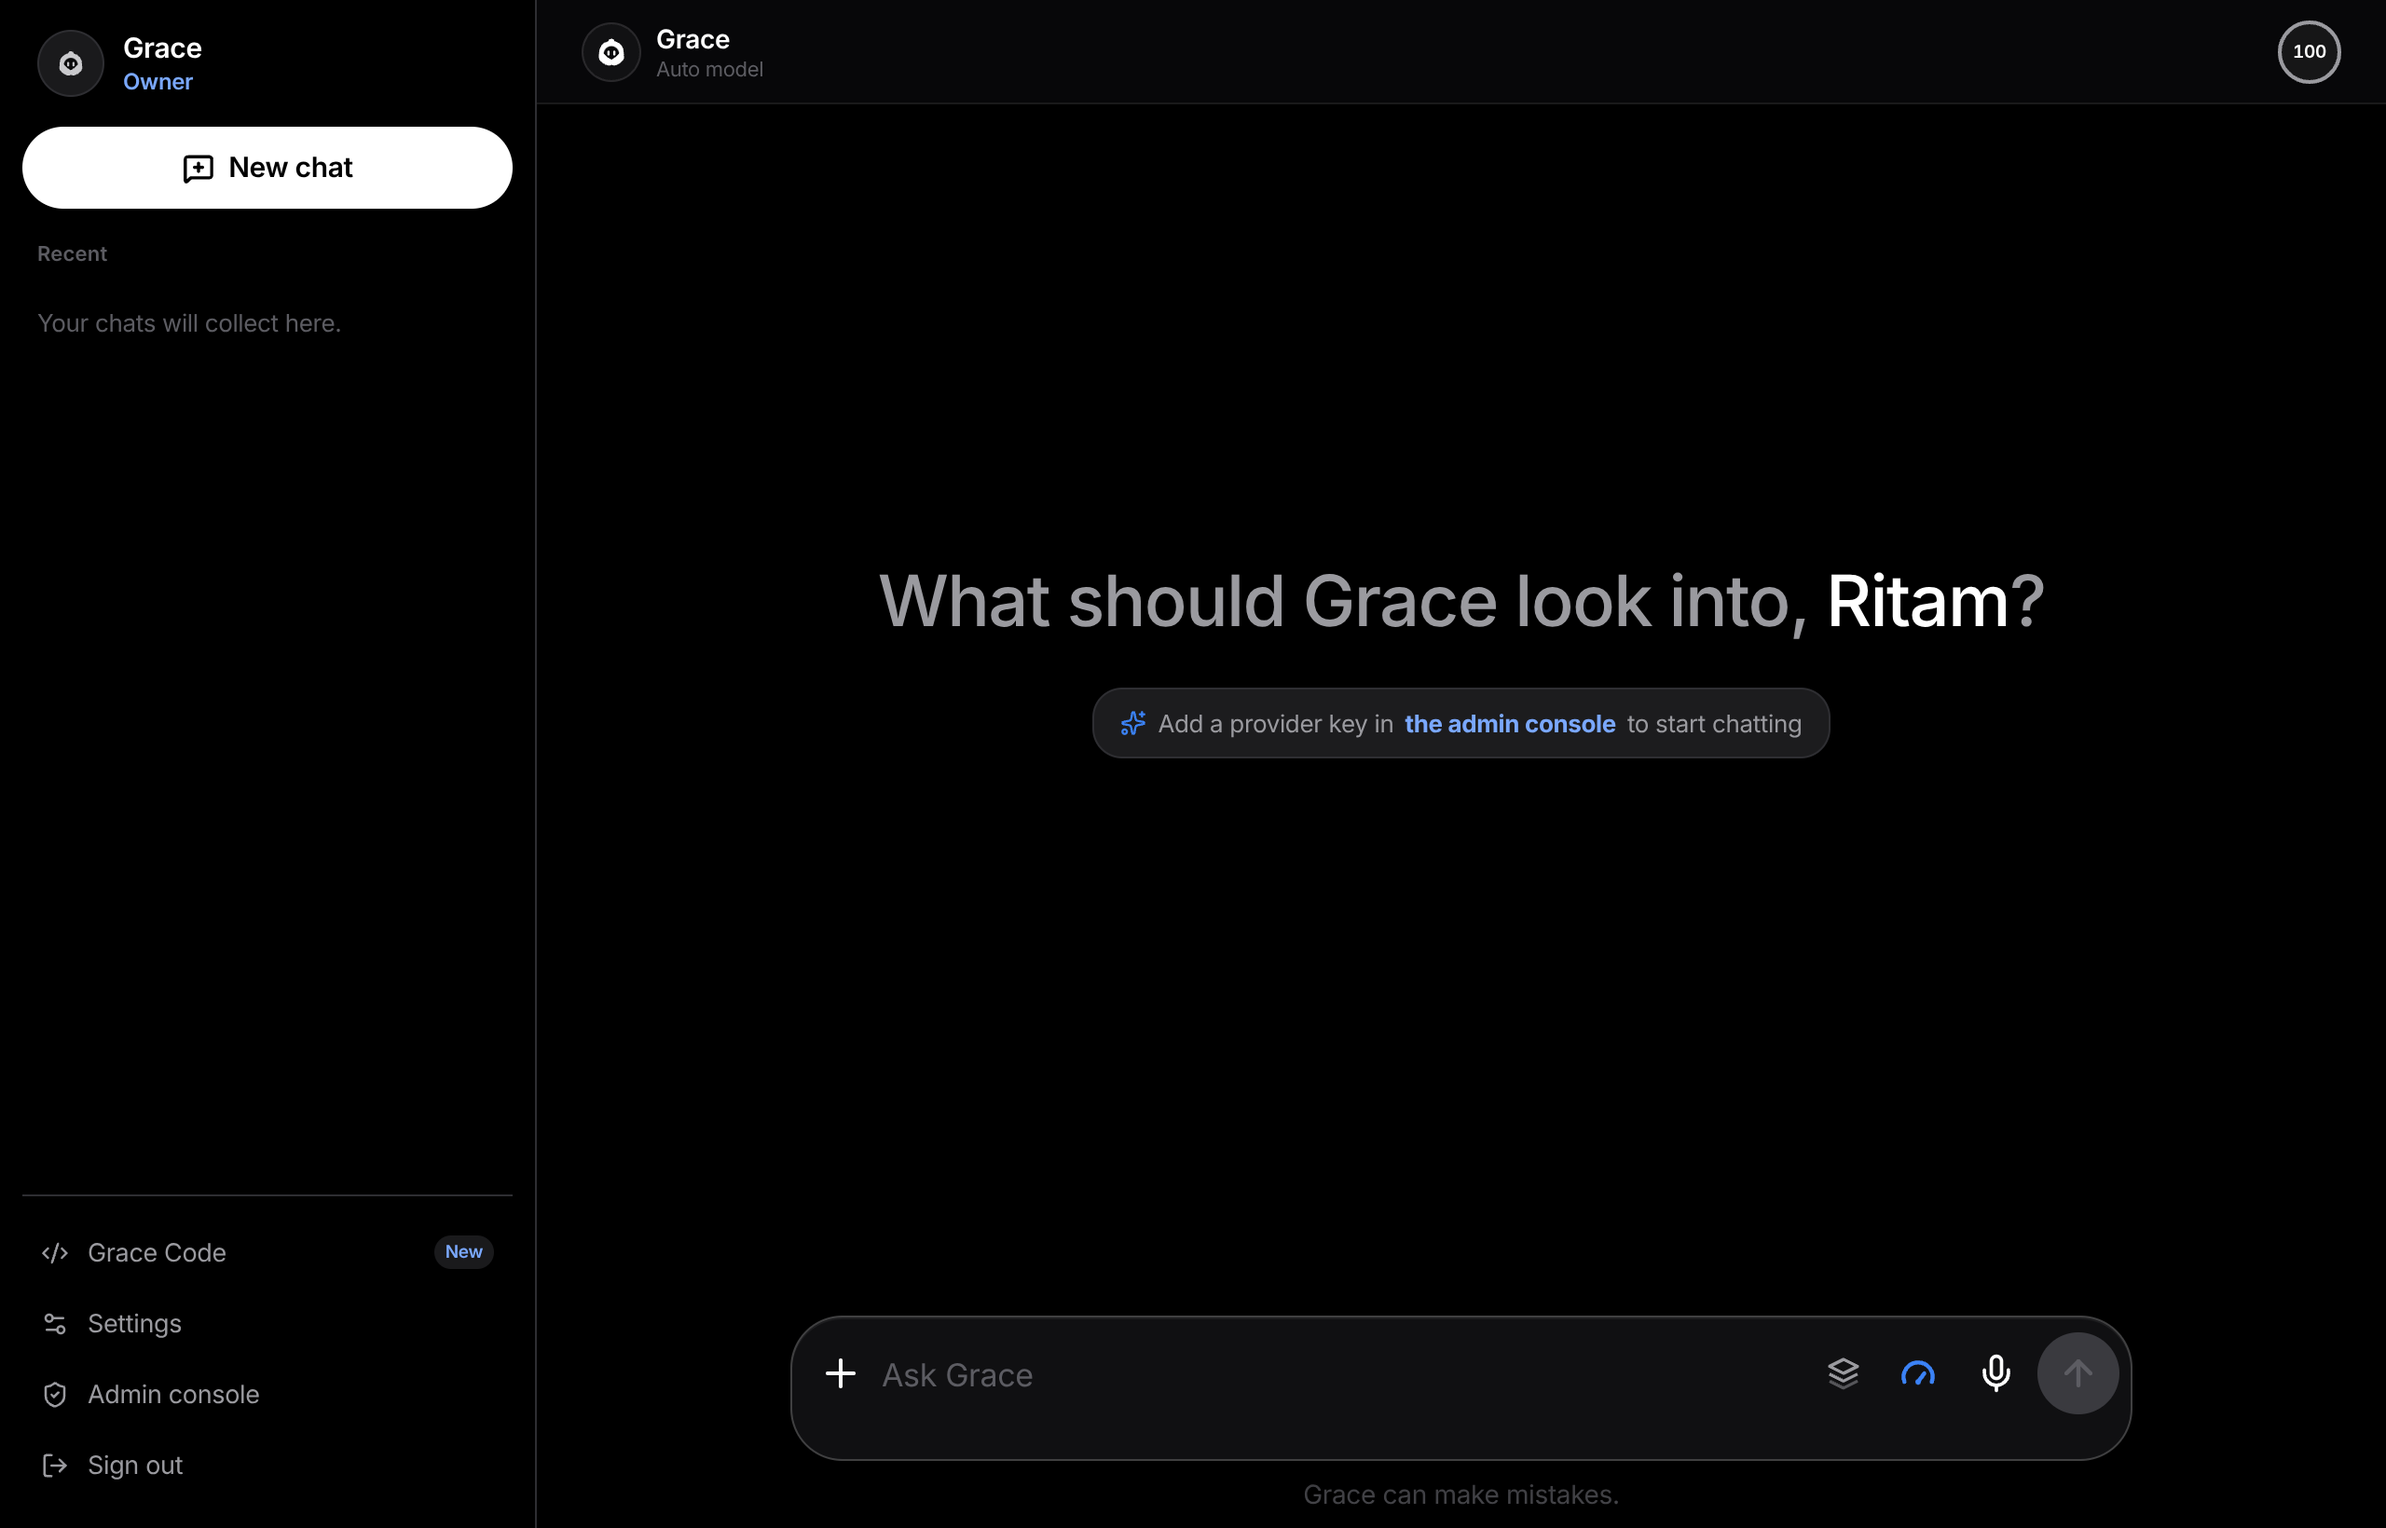
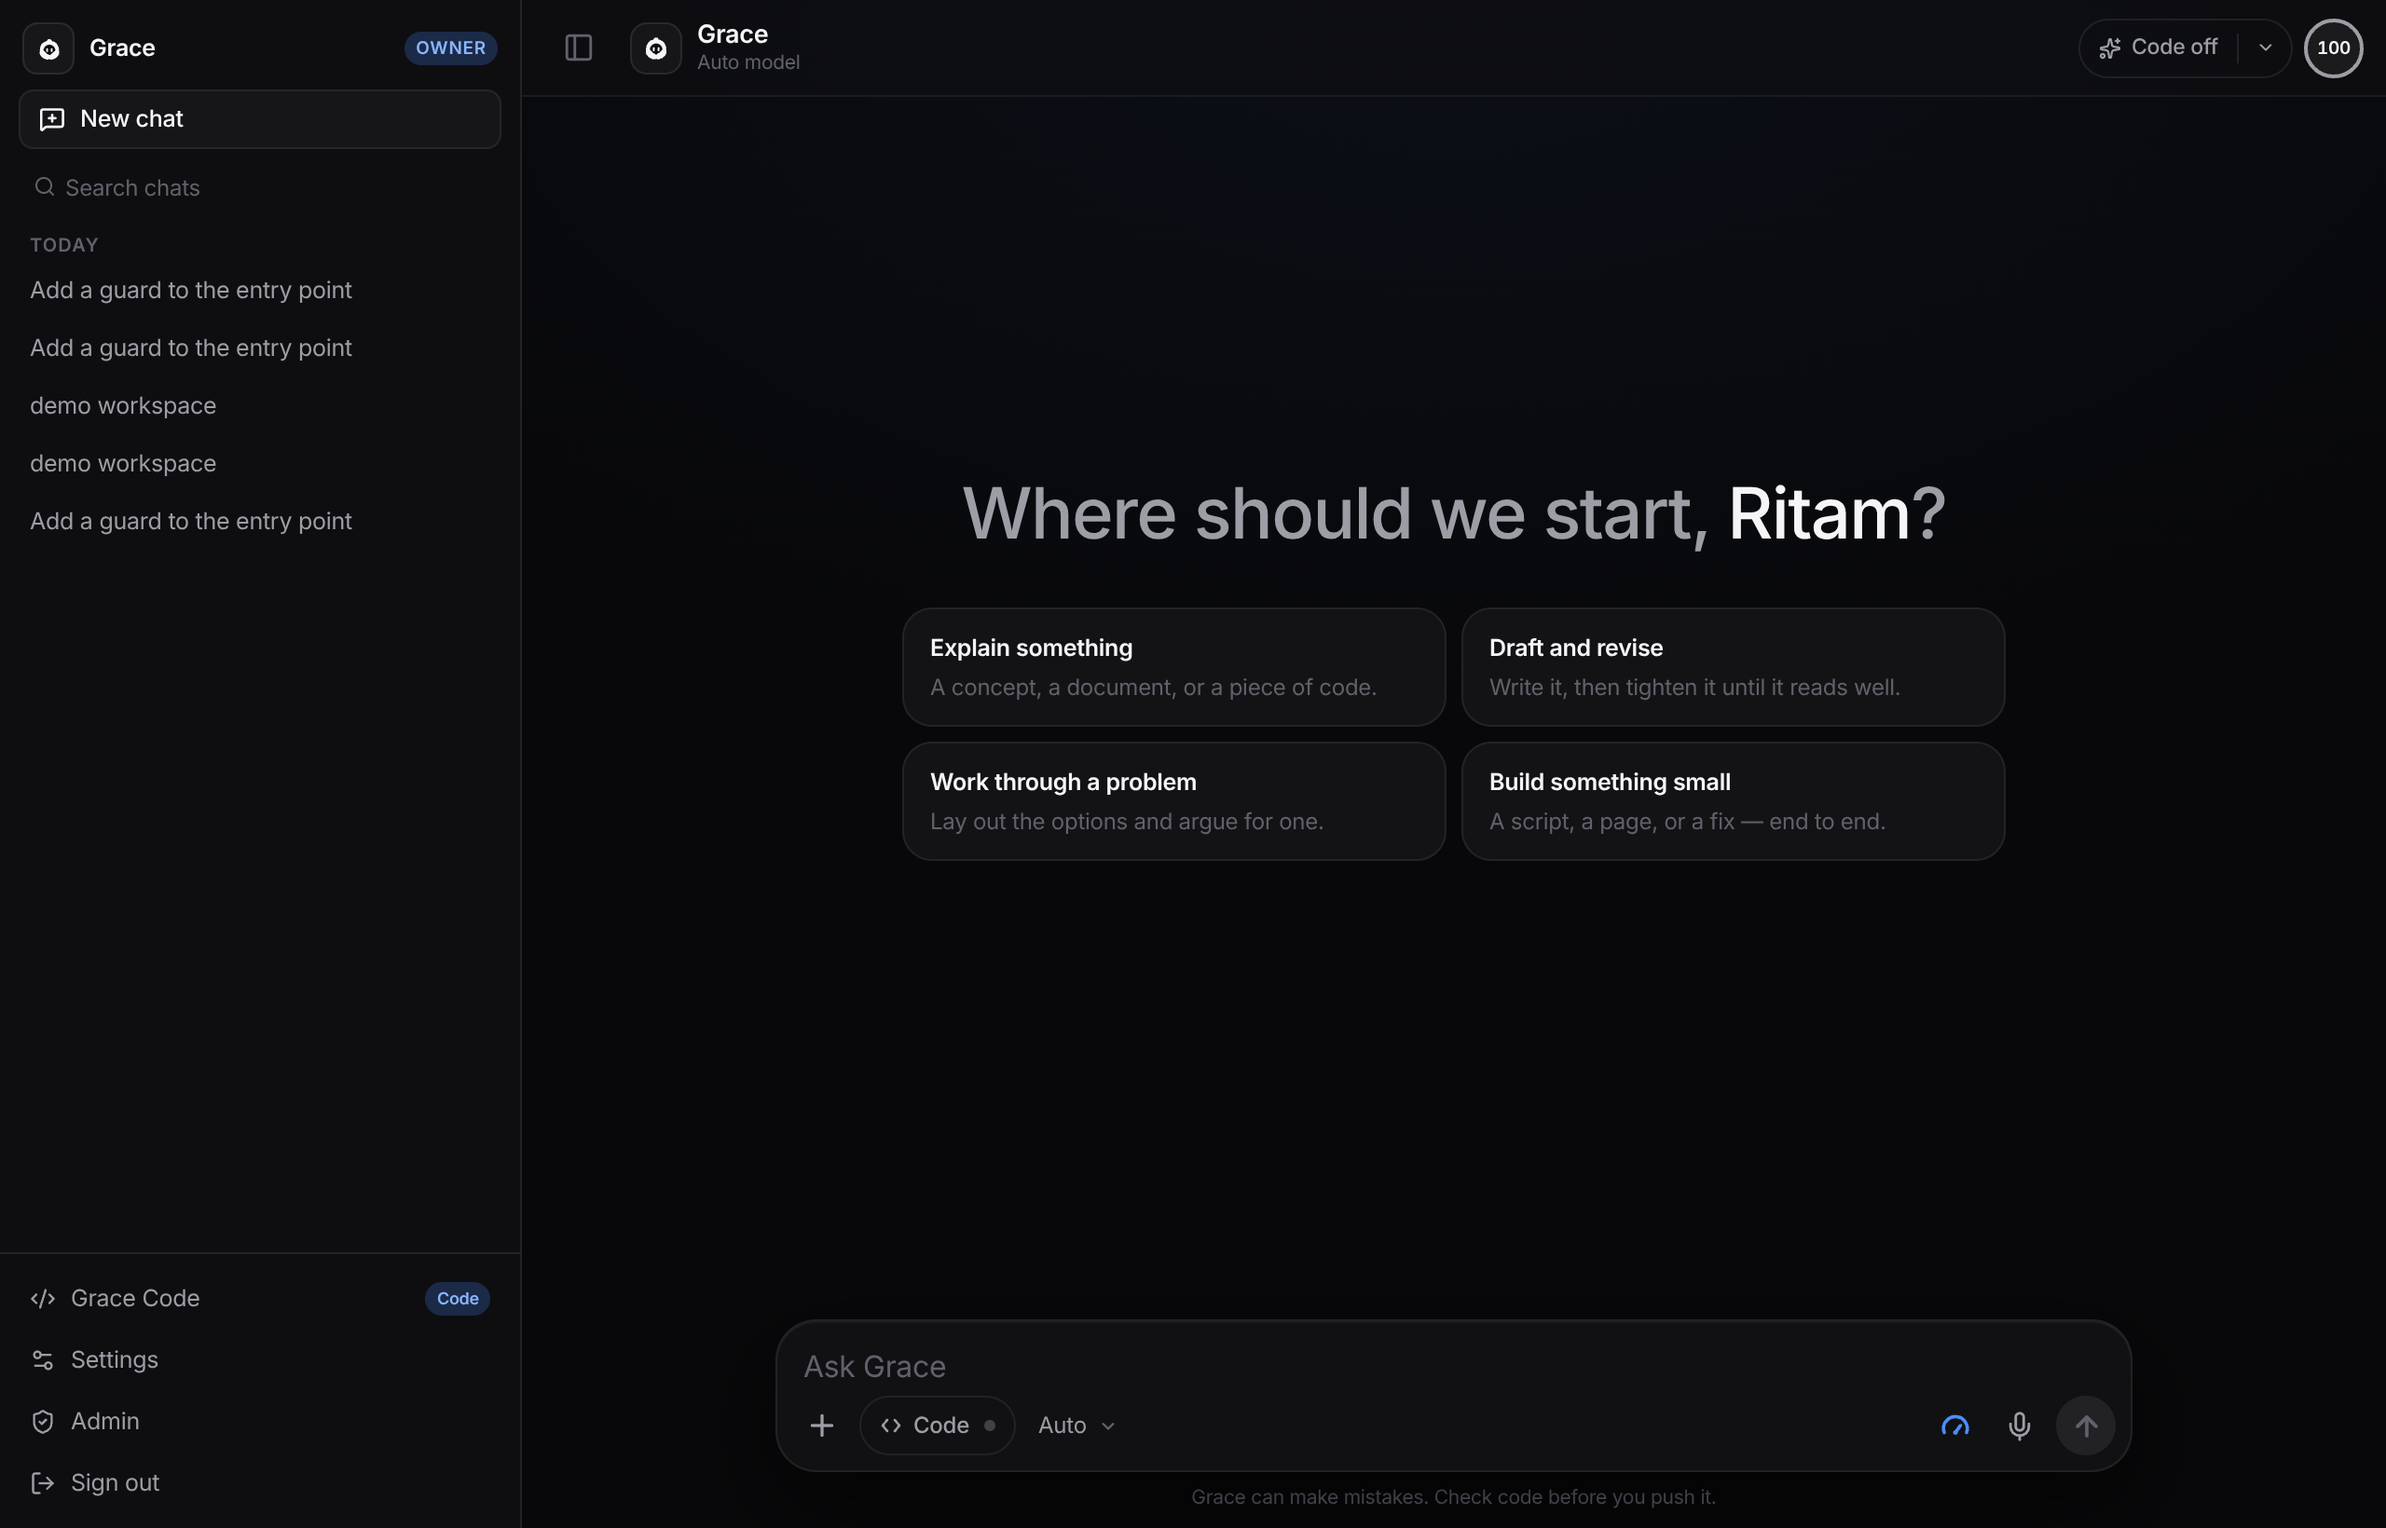
Docs: describe chat workspaces, refresh screens

diff --git a/README.md b/README.md
@@ -4,8 +4,9 @@ A quiet, fast AI chat workspace. One input, five effort levels, and every
 frontier model behind a single router — OpenRouter, Groq, Google AI Studio and
 NVIDIA NIM.
 
-The interface follows [`DESIGN.md`](./DESIGN.md) exactly: flat black, one accent
-blue, fully rounded controls, and more than 48px touch targets everywhere.
+The interface follows [`DESIGN.md`](./DESIGN.md): a surface ladder from `bg` to
+`raised`, one accent blue, hairline borders instead of shadows, and 32–40px
+controls with generous hit areas.
 
 ![Home](./docs/screens/home.png)
 
@@ -16,7 +17,8 @@ blue, fully rounded controls, and more than 48px touch targets everywhere.
 | Chat with streaming answers | ✅ NDJSON stream, stop button, regenerate, copy |
 | Effort routing (Instant → Ultra) | ✅ five levels, temperature + reasoning hints, model tier mapping |
 | Frontier model picker | ✅ live discovery across OpenRouter, Groq, Google AI Studio plus a curated NVIDIA set, per-chat override |
-| Grace Code | ✅ a real file workspace with a multi-file agent, plus GitHub import and push |
+| Chat workspace | ✅ attach a repo to a chat behind a Code switch — Grace reads the files and writes changes back, you push |
+| Grace Code | ✅ a real file workspace with a multi-file agent, per-session model choice, GitHub import and push |
 | Provider connection | ✅ server-side keys (env or admin console), write-only from the browser |
 | Accounts | ✅ email + password, scrypt hashes, httpOnly session cookies |
 | Credits | ✅ per-turn cost by model and effort, monthly allowance, credits ring |
@@ -29,7 +31,7 @@ blue, fully rounded controls, and more than 48px touch targets everywhere.
 
 ![Usage](./docs/screens/usage.png)
 ![Models](./docs/screens/models.png)
-![Effort](./docs/screens/effort.png)
+![Grace Code](./docs/screens/code.png)
 
 The same panel for the owner account, which is never charged and has the
 purchase buttons removed:
@@ -108,11 +110,35 @@ override the pick from **Choose model** at any time.
 Once a provider key is present, Grace asks that provider what it actually
 serves rather than trusting a hardcoded list (`lib/ai/discovery.ts`):
 
-## Connecting GitHub
+## Working with a repository
+
+Two places can hold code: a **chat workspace** and a **Grace Code project**. They
+share one coding doctrine (`lib/ai/coding.ts`) and one fence parser, so the model
+behaves the same in both.
+
+### In a chat
+
+A chat is a conversation until you say otherwise. Turning **Code** on in the
+composer (or the header) lets Grace read that chat's workspace; the chevron
+beside the header pill opens the drawer where a repository is attached, files
+are edited or removed, and changes are pushed. It is off by default, and a chat
+with it off never touches a file.
+
+When a turn runs with the workspace on, the chat route builds a coding prompt
+from the attached files, and after the stream ends it applies the file blocks the
+model returned — whole files, path-tagged — then stores only the prose. Empty
+bodies are skipped, so a truncated reply can never wipe a file.
+
+- `GET /api/workspace/[id]` — the repo and the files
+- `PUT /api/workspace/[id]` — `{ repo: { owner, name, branch } | null }` attach/detach
+- `PUT|DELETE /api/workspace/[id]/files` — `{ path, content? }`
+- `POST /api/github/push` — `{ conversationId, paths?, message? }`
+
+### In Grace Code
 
 Grace Code can read a repository into a project and write the agent's edits
-back as commits. Two paths, both server-side only — the token never reaches the
-browser:
+back as commits, with a model chosen per session. Two paths, both server-side
+only — the token never reaches the browser:
 
 - **OAuth** (recommended): set `GITHUB_CLIENT_ID` and `GITHUB_CLIENT_SECRET`,
   and point the app's callback at `{GRACE_APP_URL}/api/github/oauth/callback`.
